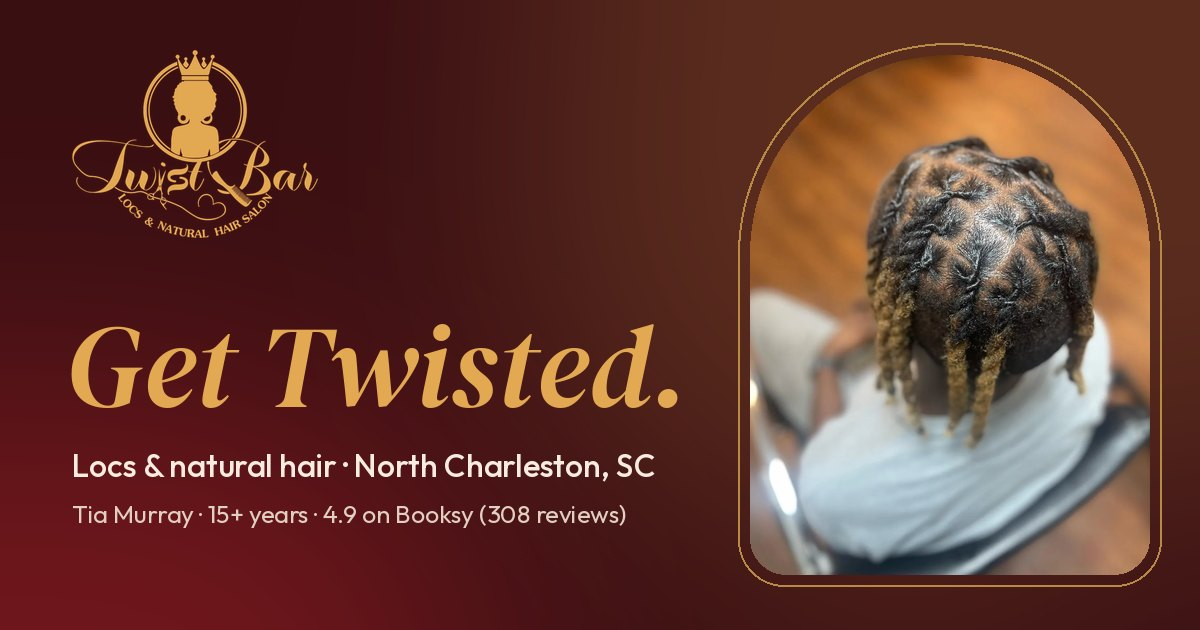
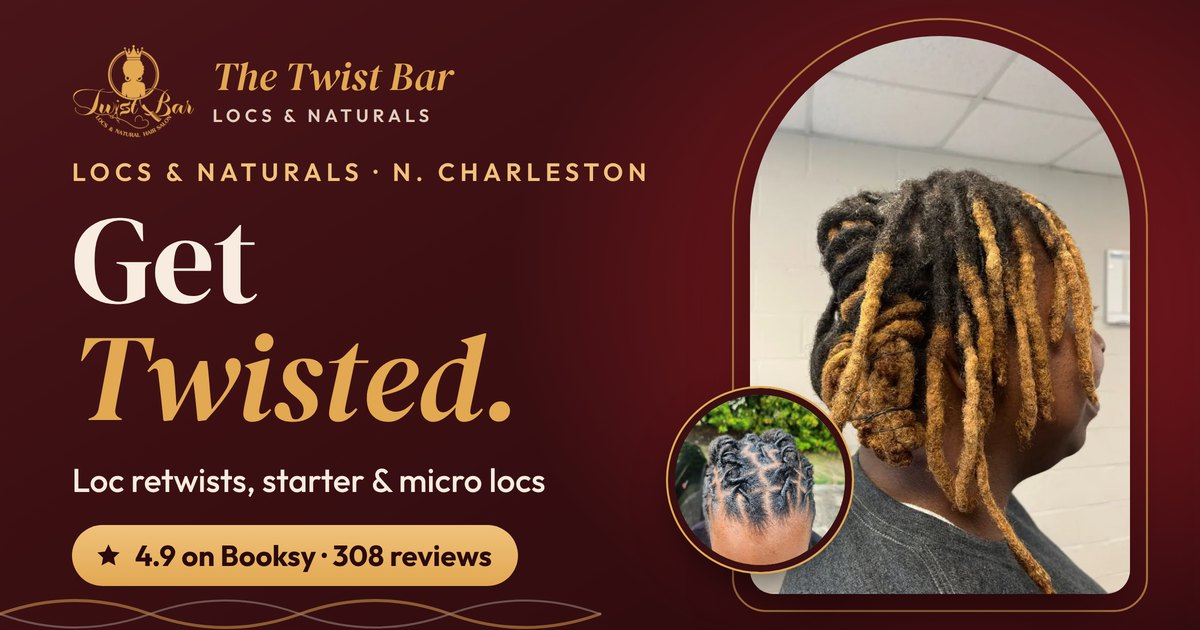
Add per-page Open Graph images and update social meta tags.

diff --git a/index.html b/index.html
@@ -12,18 +12,20 @@
 <meta property="og:type" content="website">
 <meta property="og:site_name" content="The Twist Bar Locs &amp; Naturals">
 <meta property="og:locale" content="en_US">
-<meta property="og:title" content="Loc Salon in North Charleston, SC | The Twist Bar">
+<meta property="og:title" content="The Twist Bar Locs &amp; Naturals | North Charleston">
 <meta property="og:description" content="Loc retwists, starter &amp; micro locs, loc repair and twists by Tia Murray in North Charleston, SC. 4.9 stars from 308 Booksy reviews. Book online.">
 <meta property="og:url" content="https://the-twist-bar-locs-naturals.netlify.app/">
-<meta property="og:image" content="https://the-twist-bar-locs-naturals.netlify.app/assets/img/share.jpg">
+<meta property="og:image" content="https://the-twist-bar-locs-naturals.netlify.app/assets/img/og/home.jpg">
+<meta property="og:image:secure_url" content="https://the-twist-bar-locs-naturals.netlify.app/assets/img/og/home.jpg">
 <meta property="og:image:width" content="1200">
 <meta property="og:image:height" content="630">
-<meta property="og:image:alt" content="The Twist Bar Locs &amp; Naturals: Get Twisted. Locs and natural hair in North Charleston, SC.">
+<meta property="og:image:type" content="image/jpeg">
+<meta property="og:image:alt" content="The Twist Bar Locs &amp; Naturals link preview: Get Twisted. Loc retwists, starter &amp; micro locs. 4.9 on Booksy · 308 reviews. Shown with client photos.">
 <meta name="twitter:card" content="summary_large_image">
-<meta name="twitter:title" content="Loc Salon in North Charleston, SC | The Twist Bar">
+<meta name="twitter:title" content="The Twist Bar Locs &amp; Naturals | North Charleston">
 <meta name="twitter:description" content="Loc retwists, starter &amp; micro locs, loc repair and twists by Tia Murray in North Charleston, SC. 4.9 stars from 308 Booksy reviews. Book online.">
-<meta name="twitter:image" content="https://the-twist-bar-locs-naturals.netlify.app/assets/img/share.jpg">
-<meta name="twitter:image:alt" content="The Twist Bar Locs &amp; Naturals: Get Twisted.">
+<meta name="twitter:image" content="https://the-twist-bar-locs-naturals.netlify.app/assets/img/og/home.jpg">
+<meta name="twitter:image:alt" content="The Twist Bar Locs &amp; Naturals link preview: Get Twisted. Loc retwists, starter &amp; micro locs. 4.9 on Booksy · 308 reviews. Shown with client photos.">
 <meta name="geo.region" content="US-SC">
 <meta name="geo.placename" content="North Charleston">
 <link rel="icon" href="assets/img/favicon.svg" type="image/svg+xml">

diff --git a/visit.html b/visit.html
@@ -15,15 +15,17 @@
 <meta property="og:title" content="Hours &amp; Directions, North Charleston | The Twist Bar">
 <meta property="og:description" content="The Twist Bar Locs &amp; Naturals, 4135 Rivers Ave, Unit A, North Charleston, SC. Tue–Sat by appointment only. Hours, directions, booking steps and policies.">
 <meta property="og:url" content="https://the-twist-bar-locs-naturals.netlify.app/visit.html">
-<meta property="og:image" content="https://the-twist-bar-locs-naturals.netlify.app/assets/img/share.jpg">
+<meta property="og:image" content="https://the-twist-bar-locs-naturals.netlify.app/assets/img/og/visit.jpg">
+<meta property="og:image:secure_url" content="https://the-twist-bar-locs-naturals.netlify.app/assets/img/og/visit.jpg">
 <meta property="og:image:width" content="1200">
 <meta property="og:image:height" content="630">
-<meta property="og:image:alt" content="The Twist Bar Locs &amp; Naturals: Get Twisted. Locs and natural hair in North Charleston, SC.">
+<meta property="og:image:type" content="image/jpeg">
+<meta property="og:image:alt" content="The Twist Bar Locs &amp; Naturals link preview: Find us on Rivers Ave. 4135 Rivers Ave, Unit A. Tue–Sat · By appointment. Shown with client photos.">
 <meta name="twitter:card" content="summary_large_image">
 <meta name="twitter:title" content="Hours &amp; Directions, North Charleston | The Twist Bar">
 <meta name="twitter:description" content="The Twist Bar Locs &amp; Naturals, 4135 Rivers Ave, Unit A, North Charleston, SC. Tue–Sat by appointment only. Hours, directions, booking steps and policies.">
-<meta name="twitter:image" content="https://the-twist-bar-locs-naturals.netlify.app/assets/img/share.jpg">
-<meta name="twitter:image:alt" content="The Twist Bar Locs &amp; Naturals: Get Twisted.">
+<meta name="twitter:image" content="https://the-twist-bar-locs-naturals.netlify.app/assets/img/og/visit.jpg">
+<meta name="twitter:image:alt" content="The Twist Bar Locs &amp; Naturals link preview: Find us on Rivers Ave. 4135 Rivers Ave, Unit A. Tue–Sat · By appointment. Shown with client photos.">
 <meta name="geo.region" content="US-SC">
 <meta name="geo.placename" content="North Charleston">
 <link rel="icon" href="assets/img/favicon.svg" type="image/svg+xml">

diff --git a/loc-rescue.html b/loc-rescue.html
@@ -15,15 +15,17 @@
 <meta property="og:title" content="Loc Repair in North Charleston, SC | The Twist Bar">
 <meta property="og:description" content="“I messed up. Can you save my locs?” Loc Rescue is a 3-month loc repair regimen from $200 with Tia Murray in North Charleston. $25 consultation.">
 <meta property="og:url" content="https://the-twist-bar-locs-naturals.netlify.app/loc-rescue.html">
-<meta property="og:image" content="https://the-twist-bar-locs-naturals.netlify.app/assets/img/share.jpg">
+<meta property="og:image" content="https://the-twist-bar-locs-naturals.netlify.app/assets/img/og/loc-rescue.jpg">
+<meta property="og:image:secure_url" content="https://the-twist-bar-locs-naturals.netlify.app/assets/img/og/loc-rescue.jpg">
 <meta property="og:image:width" content="1200">
 <meta property="og:image:height" content="630">
-<meta property="og:image:alt" content="The Twist Bar Locs &amp; Naturals: Get Twisted. Locs and natural hair in North Charleston, SC.">
+<meta property="og:image:type" content="image/jpeg">
+<meta property="og:image:alt" content="The Twist Bar Locs &amp; Naturals link preview: “Can you save my locs?” A 3-month loc repair program. Loc Rescue from $200+. Shown with client photos.">
 <meta name="twitter:card" content="summary_large_image">
 <meta name="twitter:title" content="Loc Repair in North Charleston, SC | The Twist Bar">
 <meta name="twitter:description" content="“I messed up. Can you save my locs?” Loc Rescue is a 3-month loc repair regimen from $200 with Tia Murray in North Charleston. $25 consultation.">
-<meta name="twitter:image" content="https://the-twist-bar-locs-naturals.netlify.app/assets/img/share.jpg">
-<meta name="twitter:image:alt" content="The Twist Bar Locs &amp; Naturals: Get Twisted.">
+<meta name="twitter:image" content="https://the-twist-bar-locs-naturals.netlify.app/assets/img/og/loc-rescue.jpg">
+<meta name="twitter:image:alt" content="The Twist Bar Locs &amp; Naturals link preview: “Can you save my locs?” A 3-month loc repair program. Loc Rescue from $200+. Shown with client photos.">
 <meta name="geo.region" content="US-SC">
 <meta name="geo.placename" content="North Charleston">
 <link rel="icon" href="assets/img/favicon.svg" type="image/svg+xml">

diff --git a/loyalty.html b/loyalty.html
@@ -15,15 +15,17 @@
 <meta property="og:title" content="Loyalty Perks &amp; Gift Cards | The Twist Bar">
 <meta property="og:description" content="Twist Bar Family perks: 50% off your birthday for 2+ year clients, 10% off for Silver (elders) and Gold members. Gift cards on Booksy. North Charleston, SC.">
 <meta property="og:url" content="https://the-twist-bar-locs-naturals.netlify.app/loyalty.html">
-<meta property="og:image" content="https://the-twist-bar-locs-naturals.netlify.app/assets/img/share.jpg">
+<meta property="og:image" content="https://the-twist-bar-locs-naturals.netlify.app/assets/img/og/loyalty.jpg">
+<meta property="og:image:secure_url" content="https://the-twist-bar-locs-naturals.netlify.app/assets/img/og/loyalty.jpg">
 <meta property="og:image:width" content="1200">
 <meta property="og:image:height" content="630">
-<meta property="og:image:alt" content="The Twist Bar Locs &amp; Naturals: Get Twisted. Locs and natural hair in North Charleston, SC.">
+<meta property="og:image:type" content="image/jpeg">
+<meta property="og:image:alt" content="The Twist Bar Locs &amp; Naturals link preview: Loyalty, Twist Bar style. 50% off your birthday at 2+ years. Gift cards on Booksy. Shown with client photos.">
 <meta name="twitter:card" content="summary_large_image">
 <meta name="twitter:title" content="Loyalty Perks &amp; Gift Cards | The Twist Bar">
 <meta name="twitter:description" content="Twist Bar Family perks: 50% off your birthday for 2+ year clients, 10% off for Silver (elders) and Gold members. Gift cards on Booksy. North Charleston, SC.">
-<meta name="twitter:image" content="https://the-twist-bar-locs-naturals.netlify.app/assets/img/share.jpg">
-<meta name="twitter:image:alt" content="The Twist Bar Locs &amp; Naturals: Get Twisted.">
+<meta name="twitter:image" content="https://the-twist-bar-locs-naturals.netlify.app/assets/img/og/loyalty.jpg">
+<meta name="twitter:image:alt" content="The Twist Bar Locs &amp; Naturals link preview: Loyalty, Twist Bar style. 50% off your birthday at 2+ years. Gift cards on Booksy. Shown with client photos.">
 <meta name="geo.region" content="US-SC">
 <meta name="geo.placename" content="North Charleston">
 <link rel="icon" href="assets/img/favicon.svg" type="image/svg+xml">

diff --git a/services.html b/services.html
@@ -15,15 +15,17 @@
 <meta property="og:title" content="Loc Retwist &amp; Starter Loc Prices | The Twist Bar">
 <meta property="og:description" content="Full menu and prices: loc retwists from $83+, starter locs from $145, micro locs, extensions, loc repair, color and twists in North Charleston, SC.">
 <meta property="og:url" content="https://the-twist-bar-locs-naturals.netlify.app/services.html">
-<meta property="og:image" content="https://the-twist-bar-locs-naturals.netlify.app/assets/img/share.jpg">
+<meta property="og:image" content="https://the-twist-bar-locs-naturals.netlify.app/assets/img/og/services.jpg">
+<meta property="og:image:secure_url" content="https://the-twist-bar-locs-naturals.netlify.app/assets/img/og/services.jpg">
 <meta property="og:image:width" content="1200">
 <meta property="og:image:height" content="630">
-<meta property="og:image:alt" content="The Twist Bar Locs &amp; Naturals: Get Twisted. Locs and natural hair in North Charleston, SC.">
+<meta property="og:image:type" content="image/jpeg">
+<meta property="og:image:alt" content="The Twist Bar Locs &amp; Naturals link preview: The full menu. Retwists $83+ · Starter locs from $145. 50 services, priced. Shown with client photos.">
 <meta name="twitter:card" content="summary_large_image">
 <meta name="twitter:title" content="Loc Retwist &amp; Starter Loc Prices | The Twist Bar">
 <meta name="twitter:description" content="Full menu and prices: loc retwists from $83+, starter locs from $145, micro locs, extensions, loc repair, color and twists in North Charleston, SC.">
-<meta name="twitter:image" content="https://the-twist-bar-locs-naturals.netlify.app/assets/img/share.jpg">
-<meta name="twitter:image:alt" content="The Twist Bar Locs &amp; Naturals: Get Twisted.">
+<meta name="twitter:image" content="https://the-twist-bar-locs-naturals.netlify.app/assets/img/og/services.jpg">
+<meta name="twitter:image:alt" content="The Twist Bar Locs &amp; Naturals link preview: The full menu. Retwists $83+ · Starter locs from $145. 50 services, priced. Shown with client photos.">
 <meta name="geo.region" content="US-SC">
 <meta name="geo.placename" content="North Charleston">
 <link rel="icon" href="assets/img/favicon.svg" type="image/svg+xml">

diff --git a/gallery.html b/gallery.html
@@ -15,15 +15,17 @@
 <meta property="og:title" content="Loc Styles Gallery, North Charleston | The Twist Bar">
 <meta property="og:description" content="Loc retwists, updos, honey and burgundy loc color, micro locs and twist styles by Tia Murray at The Twist Bar in North Charleston, SC.">
 <meta property="og:url" content="https://the-twist-bar-locs-naturals.netlify.app/gallery.html">
-<meta property="og:image" content="https://the-twist-bar-locs-naturals.netlify.app/assets/img/share.jpg">
+<meta property="og:image" content="https://the-twist-bar-locs-naturals.netlify.app/assets/img/og/gallery.jpg">
+<meta property="og:image:secure_url" content="https://the-twist-bar-locs-naturals.netlify.app/assets/img/og/gallery.jpg">
 <meta property="og:image:width" content="1200">
 <meta property="og:image:height" content="630">
-<meta property="og:image:alt" content="The Twist Bar Locs &amp; Naturals: Get Twisted. Locs and natural hair in North Charleston, SC.">
+<meta property="og:image:type" content="image/jpeg">
+<meta property="og:image:alt" content="The Twist Bar Locs &amp; Naturals link preview: Locs, twists &amp; color. By Tia Murray, 15+ years. North Charleston, SC. Shown with four client photos.">
 <meta name="twitter:card" content="summary_large_image">
 <meta name="twitter:title" content="Loc Styles Gallery, North Charleston | The Twist Bar">
 <meta name="twitter:description" content="Loc retwists, updos, honey and burgundy loc color, micro locs and twist styles by Tia Murray at The Twist Bar in North Charleston, SC.">
-<meta name="twitter:image" content="https://the-twist-bar-locs-naturals.netlify.app/assets/img/share.jpg">
-<meta name="twitter:image:alt" content="The Twist Bar Locs &amp; Naturals: Get Twisted.">
+<meta name="twitter:image" content="https://the-twist-bar-locs-naturals.netlify.app/assets/img/og/gallery.jpg">
+<meta name="twitter:image:alt" content="The Twist Bar Locs &amp; Naturals link preview: Locs, twists &amp; color. By Tia Murray, 15+ years. North Charleston, SC. Shown with four client photos.">
 <meta name="geo.region" content="US-SC">
 <meta name="geo.placename" content="North Charleston">
 <link rel="icon" href="assets/img/favicon.svg" type="image/svg+xml">

diff --git a/404.html b/404.html
@@ -15,15 +15,17 @@
 <meta property="og:title" content="Page not found | The Twist Bar Locs &amp; Naturals">
 <meta property="og:description" content="This page could not be found. Book with The Twist Bar Locs &amp; Naturals in North Charleston, SC.">
 <meta property="og:url" content="https://the-twist-bar-locs-naturals.netlify.app/404.html">
-<meta property="og:image" content="https://the-twist-bar-locs-naturals.netlify.app/assets/img/share.jpg">
+<meta property="og:image" content="https://the-twist-bar-locs-naturals.netlify.app/assets/img/og/home.jpg">
+<meta property="og:image:secure_url" content="https://the-twist-bar-locs-naturals.netlify.app/assets/img/og/home.jpg">
 <meta property="og:image:width" content="1200">
 <meta property="og:image:height" content="630">
-<meta property="og:image:alt" content="The Twist Bar Locs &amp; Naturals: Get Twisted. Locs and natural hair in North Charleston, SC.">
+<meta property="og:image:type" content="image/jpeg">
+<meta property="og:image:alt" content="The Twist Bar Locs &amp; Naturals link preview: Get Twisted. Loc retwists, starter &amp; micro locs. 4.9 on Booksy · 308 reviews. Shown with client photos.">
 <meta name="twitter:card" content="summary_large_image">
 <meta name="twitter:title" content="Page not found | The Twist Bar Locs &amp; Naturals">
 <meta name="twitter:description" content="This page could not be found. Book with The Twist Bar Locs &amp; Naturals in North Charleston, SC.">
-<meta name="twitter:image" content="https://the-twist-bar-locs-naturals.netlify.app/assets/img/share.jpg">
-<meta name="twitter:image:alt" content="The Twist Bar Locs &amp; Naturals: Get Twisted.">
+<meta name="twitter:image" content="https://the-twist-bar-locs-naturals.netlify.app/assets/img/og/home.jpg">
+<meta name="twitter:image:alt" content="The Twist Bar Locs &amp; Naturals link preview: Get Twisted. Loc retwists, starter &amp; micro locs. 4.9 on Booksy · 308 reviews. Shown with client photos.">
 <meta name="geo.region" content="US-SC">
 <meta name="geo.placename" content="North Charleston">
 <link rel="icon" href="/assets/img/favicon.svg" type="image/svg+xml">
